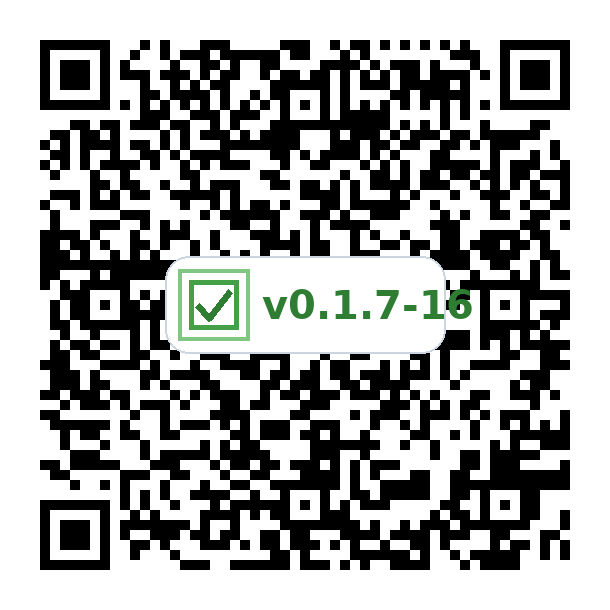
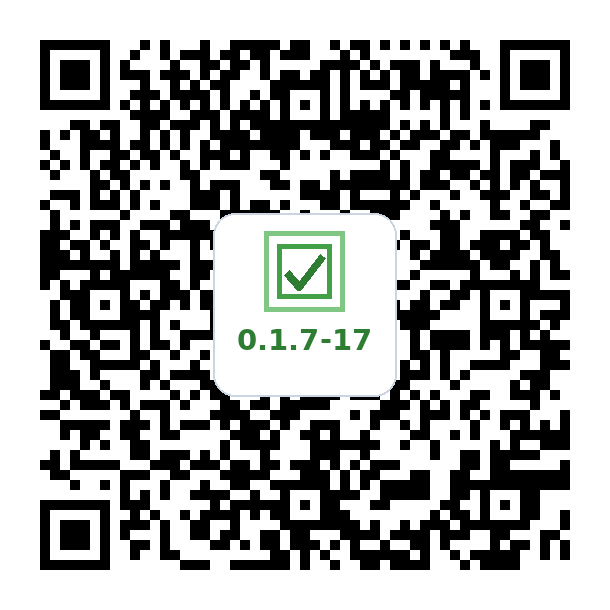
deploy: 6d4045e0010c9eaf3934212621fee0c83dadfc04

diff --git a/index.html b/index.html
@@ -186,9 +186,9 @@
           <div class="qr-container">
             <img src="qr.png" alt="MicroTasking APK QR Code">
             <br>
-            <a href="https://github.com/vemcg/MicroTasking/releases/download/v0.1.7-16/MicroTasking-v0.1.7-16.apk" class="btn" target="_blank" rel="noopener">Download MicroTasking APK (v0.1.7-16)</a>
+            <a href="https://github.com/vemcg/MicroTasking/releases/download/v0.1.7-17/MicroTasking-v0.1.7-17.apk" class="btn" target="_blank" rel="noopener">Download MicroTasking APK (v0.1.7-17)</a>
             <br>
-            <a href="https://github.com/vemcg/MicroTasking/releases/download/v0.1.7-16/MicroTasking-v0.1.7-16.apk" target="_blank" rel="noopener">Open the download again</a>
+            <a href="https://github.com/vemcg/MicroTasking/releases/download/v0.1.7-17/MicroTasking-v0.1.7-17.apk" target="_blank" rel="noopener">Open the download again</a>
           </div>
         </li>
         <li>
